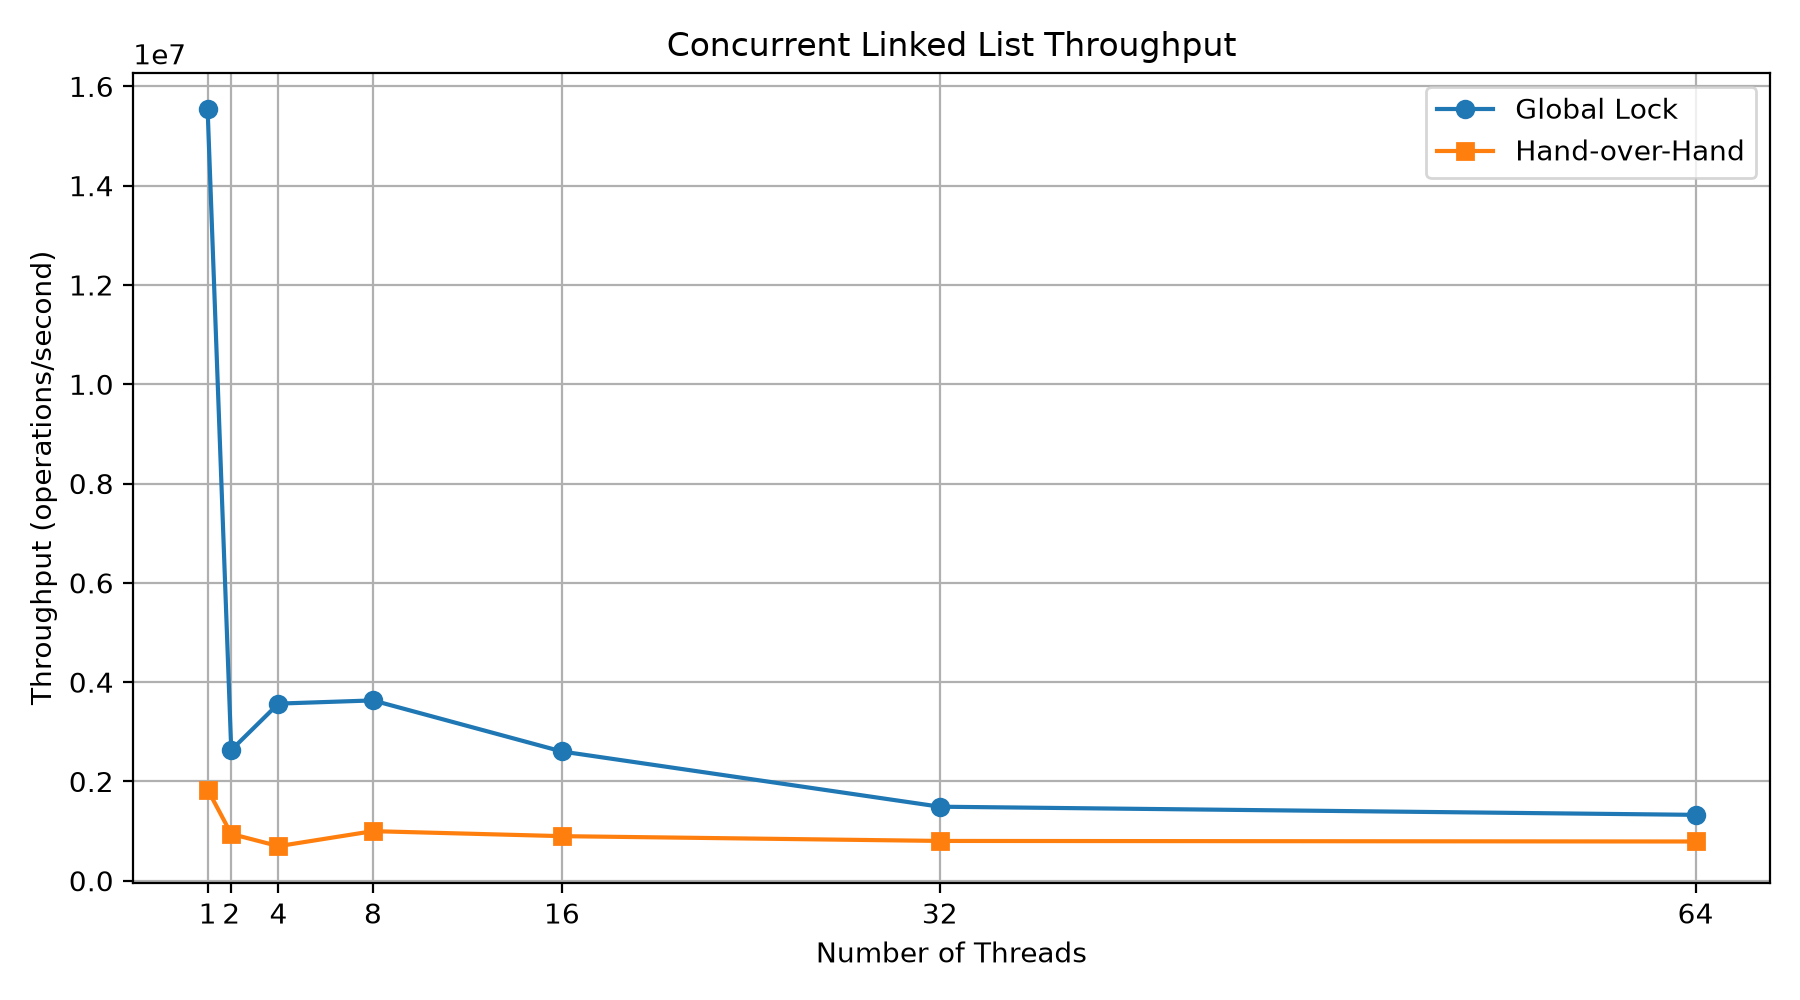
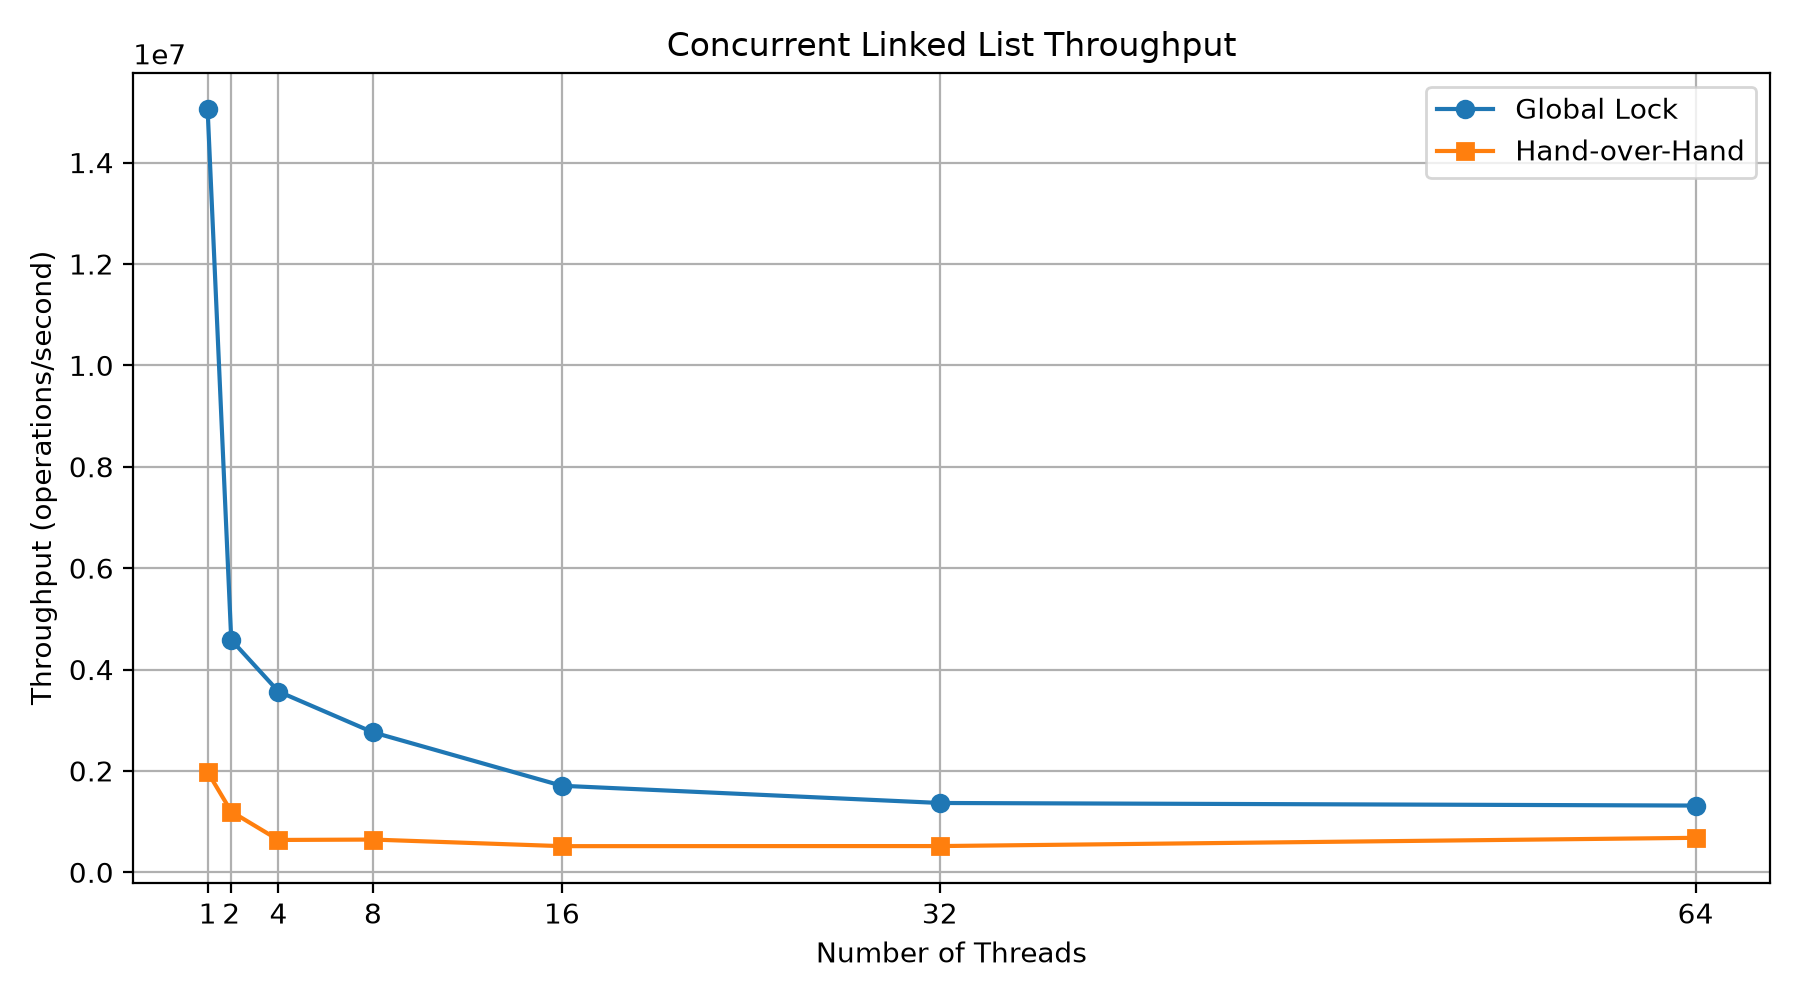
MoreExperimentRan..

diff --git a/runcommands.md b/runcommands.md
@@ -1,0 +1,3 @@
+gcc -O2 -Wall -Wextra -pthread main.c -o lists
+./lists
+python3 plot.py
